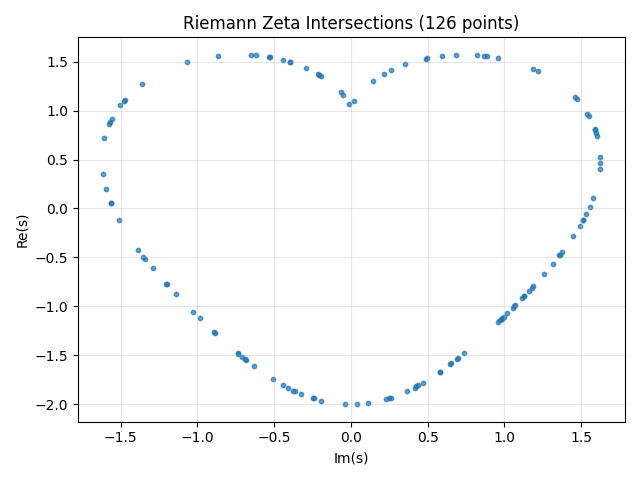
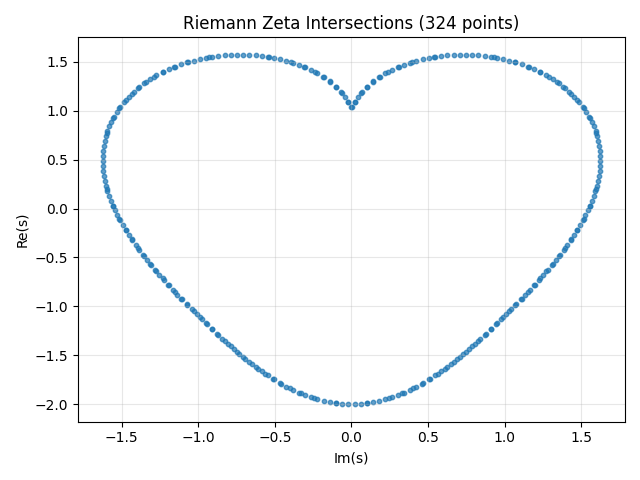
better boxSearch

diff --git a/zetaExplorer.py b/zetaExplorer.py
@@ -4,7 +4,7 @@ from collections import deque
 import numpy as np
 import mpmath
 import matplotlib.pyplot as plt
-from typing import Literal, Optional, Tuple, overload
+from typing import Literal, Optional, Tuple, Union, overload
 
 __all__ = ["run", "IntersectionResults"]
 
@@ -368,6 +368,9 @@ def _run_box_search(
     box_end=(1.0, 30.0),     # (re_max, im_max) — upper corner of the box
     num_circles=100,
     radius_range=(0.25, 1.0),
+    controlled_search=False,
+    iterations=None,         # number of lines for controlled_search (alias: circle_num)
+    circle_num=None,
     verbose=True,
     precision=250,
     transform_real=None,
@@ -376,17 +379,42 @@ def _run_box_search(
     re_max, im_max = box_end
 
     found = []
-    for i in range(1, num_circles + 1):
-        cx = random.uniform(re_min, re_max)
-        cy = random.uniform(im_min, im_max)
-        radius = random.uniform(*radius_range)
-        re_arr, im_arr = _generate_circle(cx, cy, radius, precision)
-        zeta_re, zeta_im = _compute_zeta(re_arr, im_arr)
-        crossings = _find_intersections(re_arr, im_arr, zeta_re, zeta_im, transform_real, transform_imag)
-        in_box = [(re, im) for re, im in crossings
-                  if re_min <= re <= re_max and im_min <= im <= im_max]
-        found.extend(in_box)
-        _status(f"Circle {i}/{num_circles}: {len(in_box)} kept | {len(found)} total", verbose)
+
+    if controlled_search:
+        n_lines = iterations if iterations is not None else (circle_num if circle_num is not None else 50)
+        directions = ["horizontal", "vertical"] if controlled_search == "both" else \
+                     ["vertical"] if controlled_search == "vertical" else ["horizontal"]
+        for direction in directions:
+            if direction == "vertical":
+                re_vals = np.linspace(re_min, re_max, n_lines)
+                im_arr = np.linspace(im_min, im_max, precision)
+                for i, cx in enumerate(re_vals, 1):
+                    re_arr = np.full(precision, cx)
+                    zeta_re, zeta_im = _compute_zeta(re_arr, im_arr)
+                    crossings = _find_intersections(re_arr, im_arr, zeta_re, zeta_im, transform_real, transform_imag)
+                    found.extend(crossings)
+                    _status(f"Vertical line {i}/{n_lines}: {len(crossings)} found | {len(found)} total", verbose)
+            else:
+                im_vals = np.linspace(im_min, im_max, n_lines)
+                re_arr = np.linspace(re_min, re_max, precision)
+                for i, cy in enumerate(im_vals, 1):
+                    im_arr = np.full(precision, cy)
+                    zeta_re, zeta_im = _compute_zeta(re_arr, im_arr)
+                    crossings = _find_intersections(re_arr, im_arr, zeta_re, zeta_im, transform_real, transform_imag)
+                    found.extend(crossings)
+                    _status(f"Horizontal line {i}/{n_lines}: {len(crossings)} found | {len(found)} total", verbose)
+    else:
+        for i in range(1, num_circles + 1):
+            cx = random.uniform(re_min, re_max)
+            cy = random.uniform(im_min, im_max)
+            radius = random.uniform(*radius_range)
+            re_arr, im_arr = _generate_circle(cx, cy, radius, precision)
+            zeta_re, zeta_im = _compute_zeta(re_arr, im_arr)
+            crossings = _find_intersections(re_arr, im_arr, zeta_re, zeta_im, transform_real, transform_imag)
+            in_box = [(re, im) for re, im in crossings
+                      if re_min <= re <= re_max and im_min <= im <= im_max]
+            found.extend(in_box)
+            _status(f"Circle {i}/{num_circles}: {len(in_box)} kept | {len(found)} total", verbose)
 
     if verbose:
         print()
@@ -432,6 +460,9 @@ def run(
     box_end: Tuple[float, float] = ...,
     num_circles: int = ...,
     radius_range: Tuple[float, float] = ...,
+    controlled_search: Union[bool, Literal["horizontal", "vertical", "both"]] = ...,
+    iterations: Optional[int] = ...,
+    circle_num: Optional[int] = ...,
     verbose: bool = ...,
     precision: int = ...,
     transform_real: Optional[callable] = ...,

diff --git a/examples/eggsplorer_transform.py b/examples/eggsplorer_transform.py
@@ -8,8 +8,9 @@ results = zetaExplorer.run(
     "boxSearch",
     box_start=(-3, -2),
     box_end=(2, 2),
-    radius_range=(0.5, 1),
-    precision=250,
+    controlled_search="both",
+    iterations=100,
+    precision=500,
     transform_imag=lambda x: 2*x**2, # transforming data before checking itersections 
 )
 

diff --git a/README.md b/README.md
@@ -107,8 +107,9 @@ results = zetaExplorer.run(
     "boxSearch",
     box_start=(-3, -2),
     box_end=(2, 2),
-    radius_range=(0.5, 1),
-    precision=250,
+    controlled_search="both",
+    iterations=100,
+    precision=500,
     transform_imag=lambda x: 2*x**2,
 )
 
